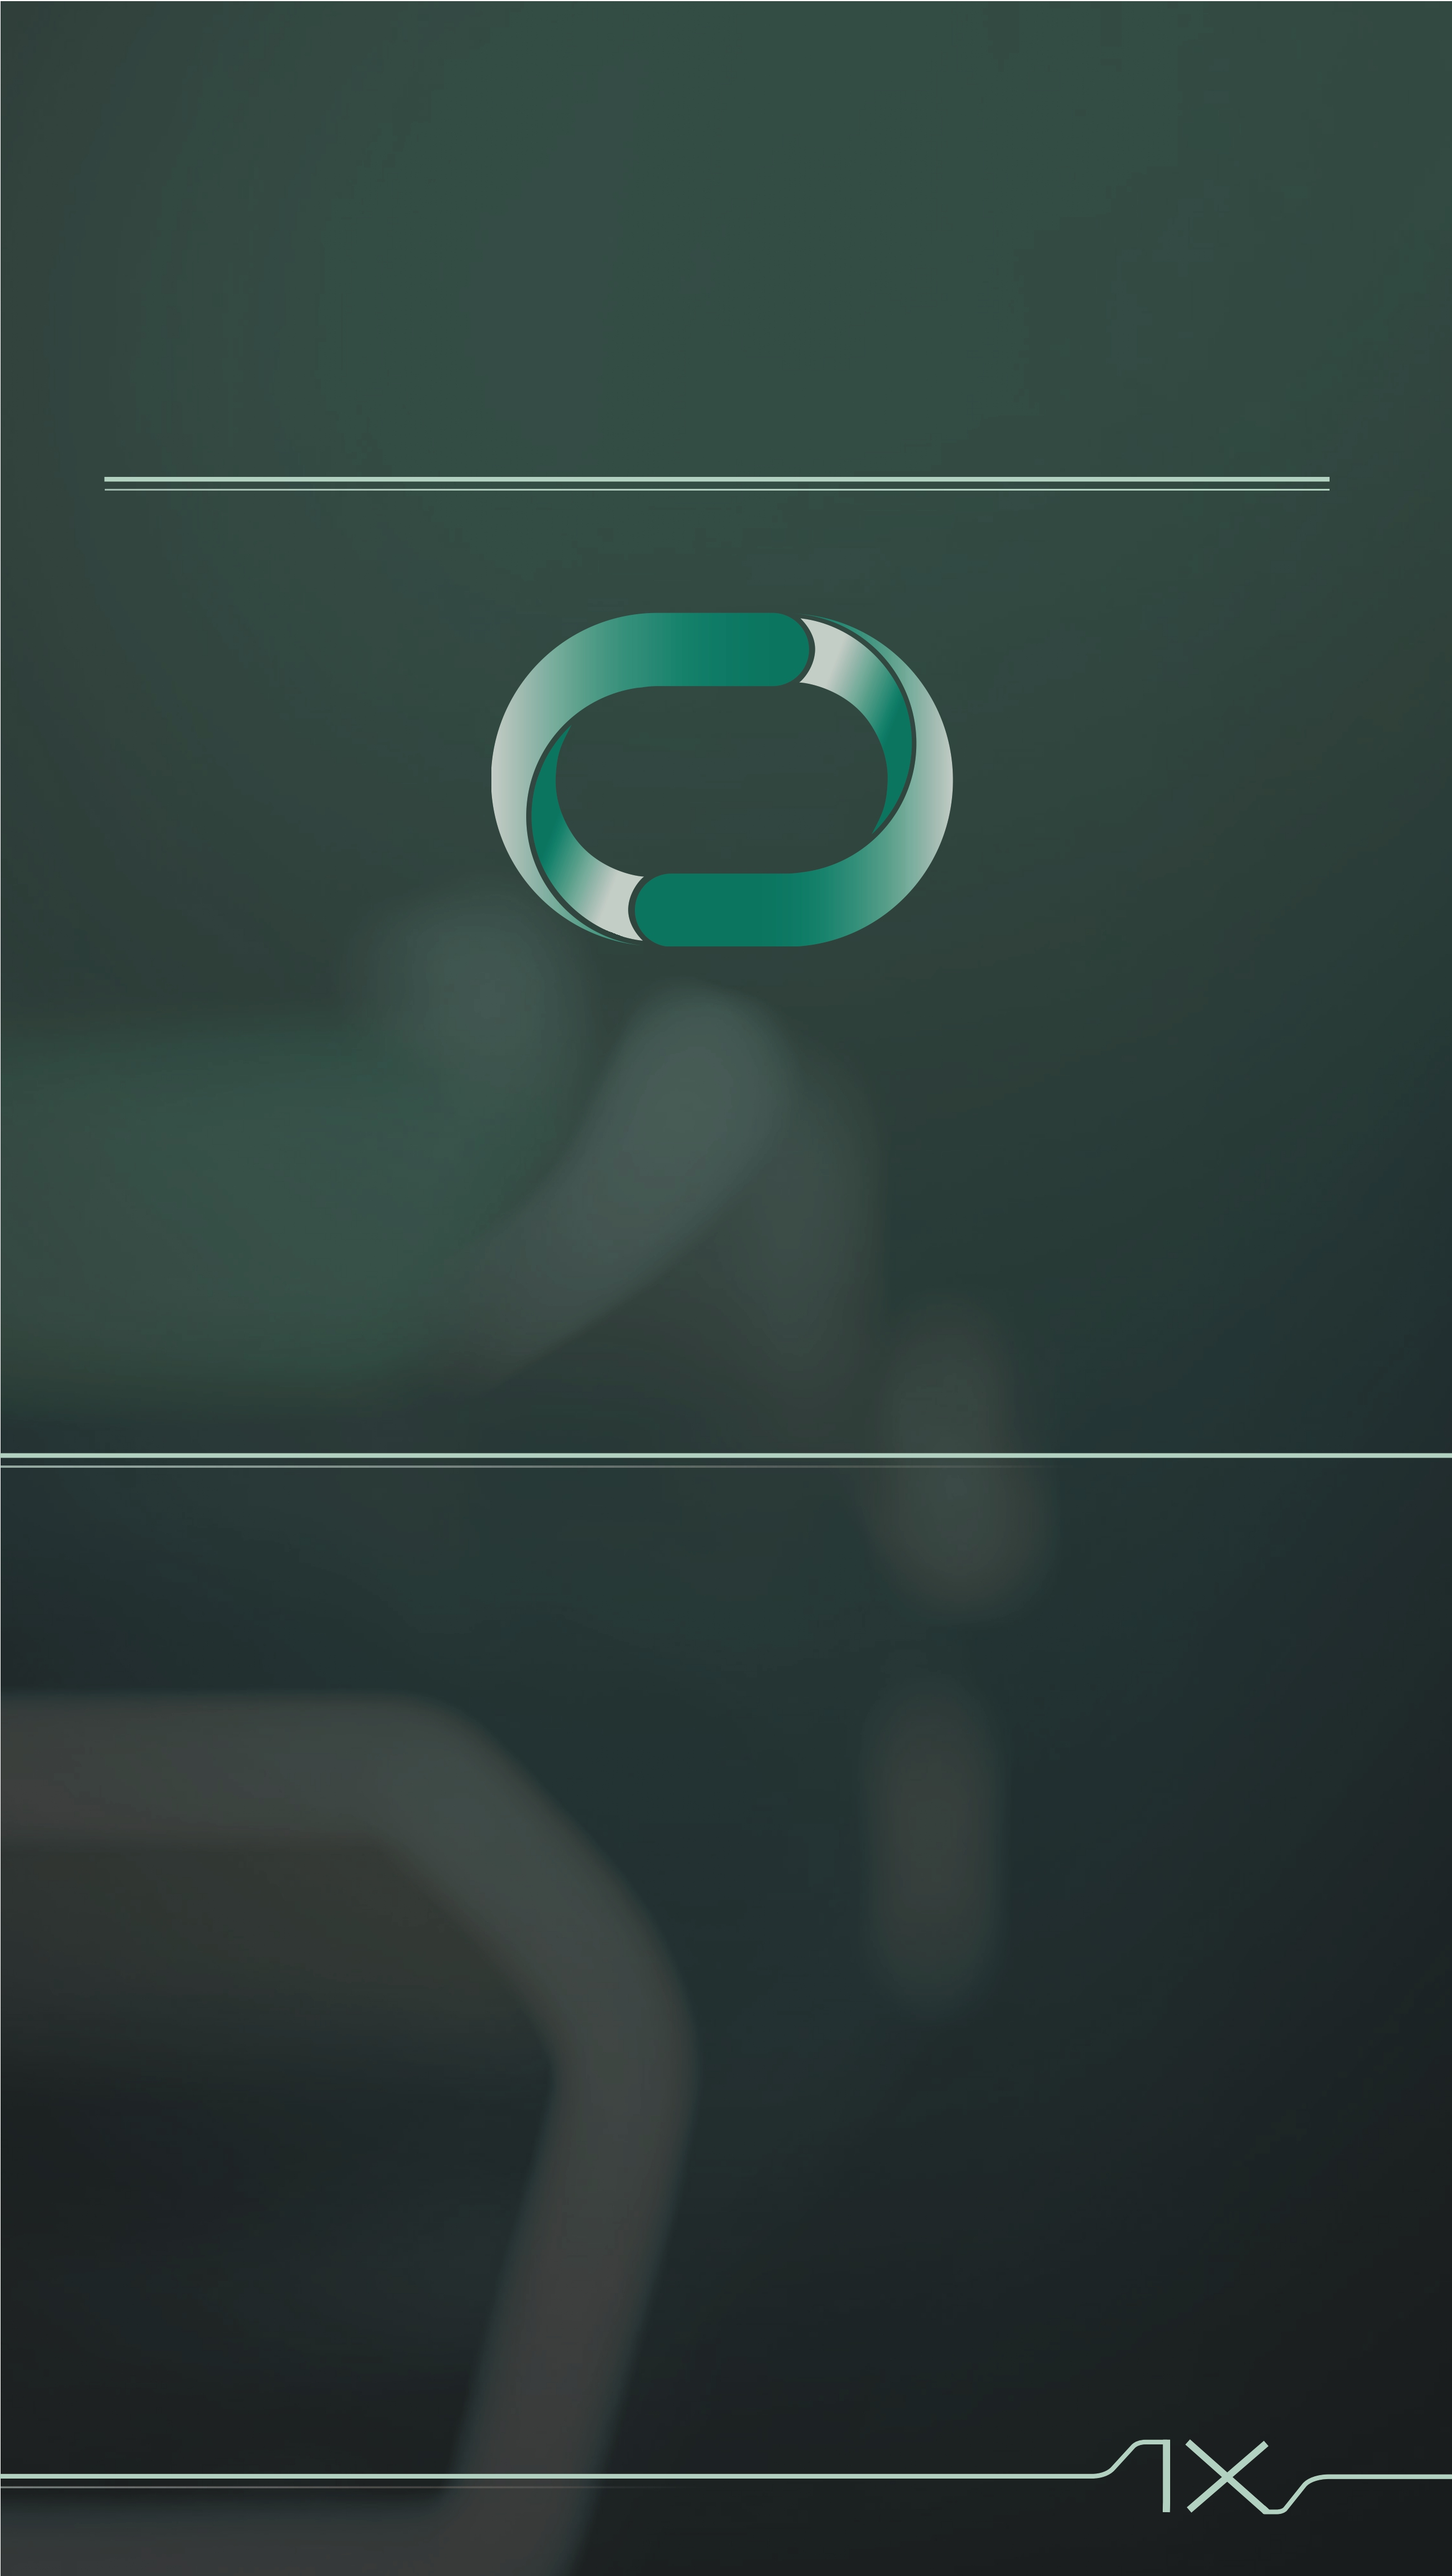
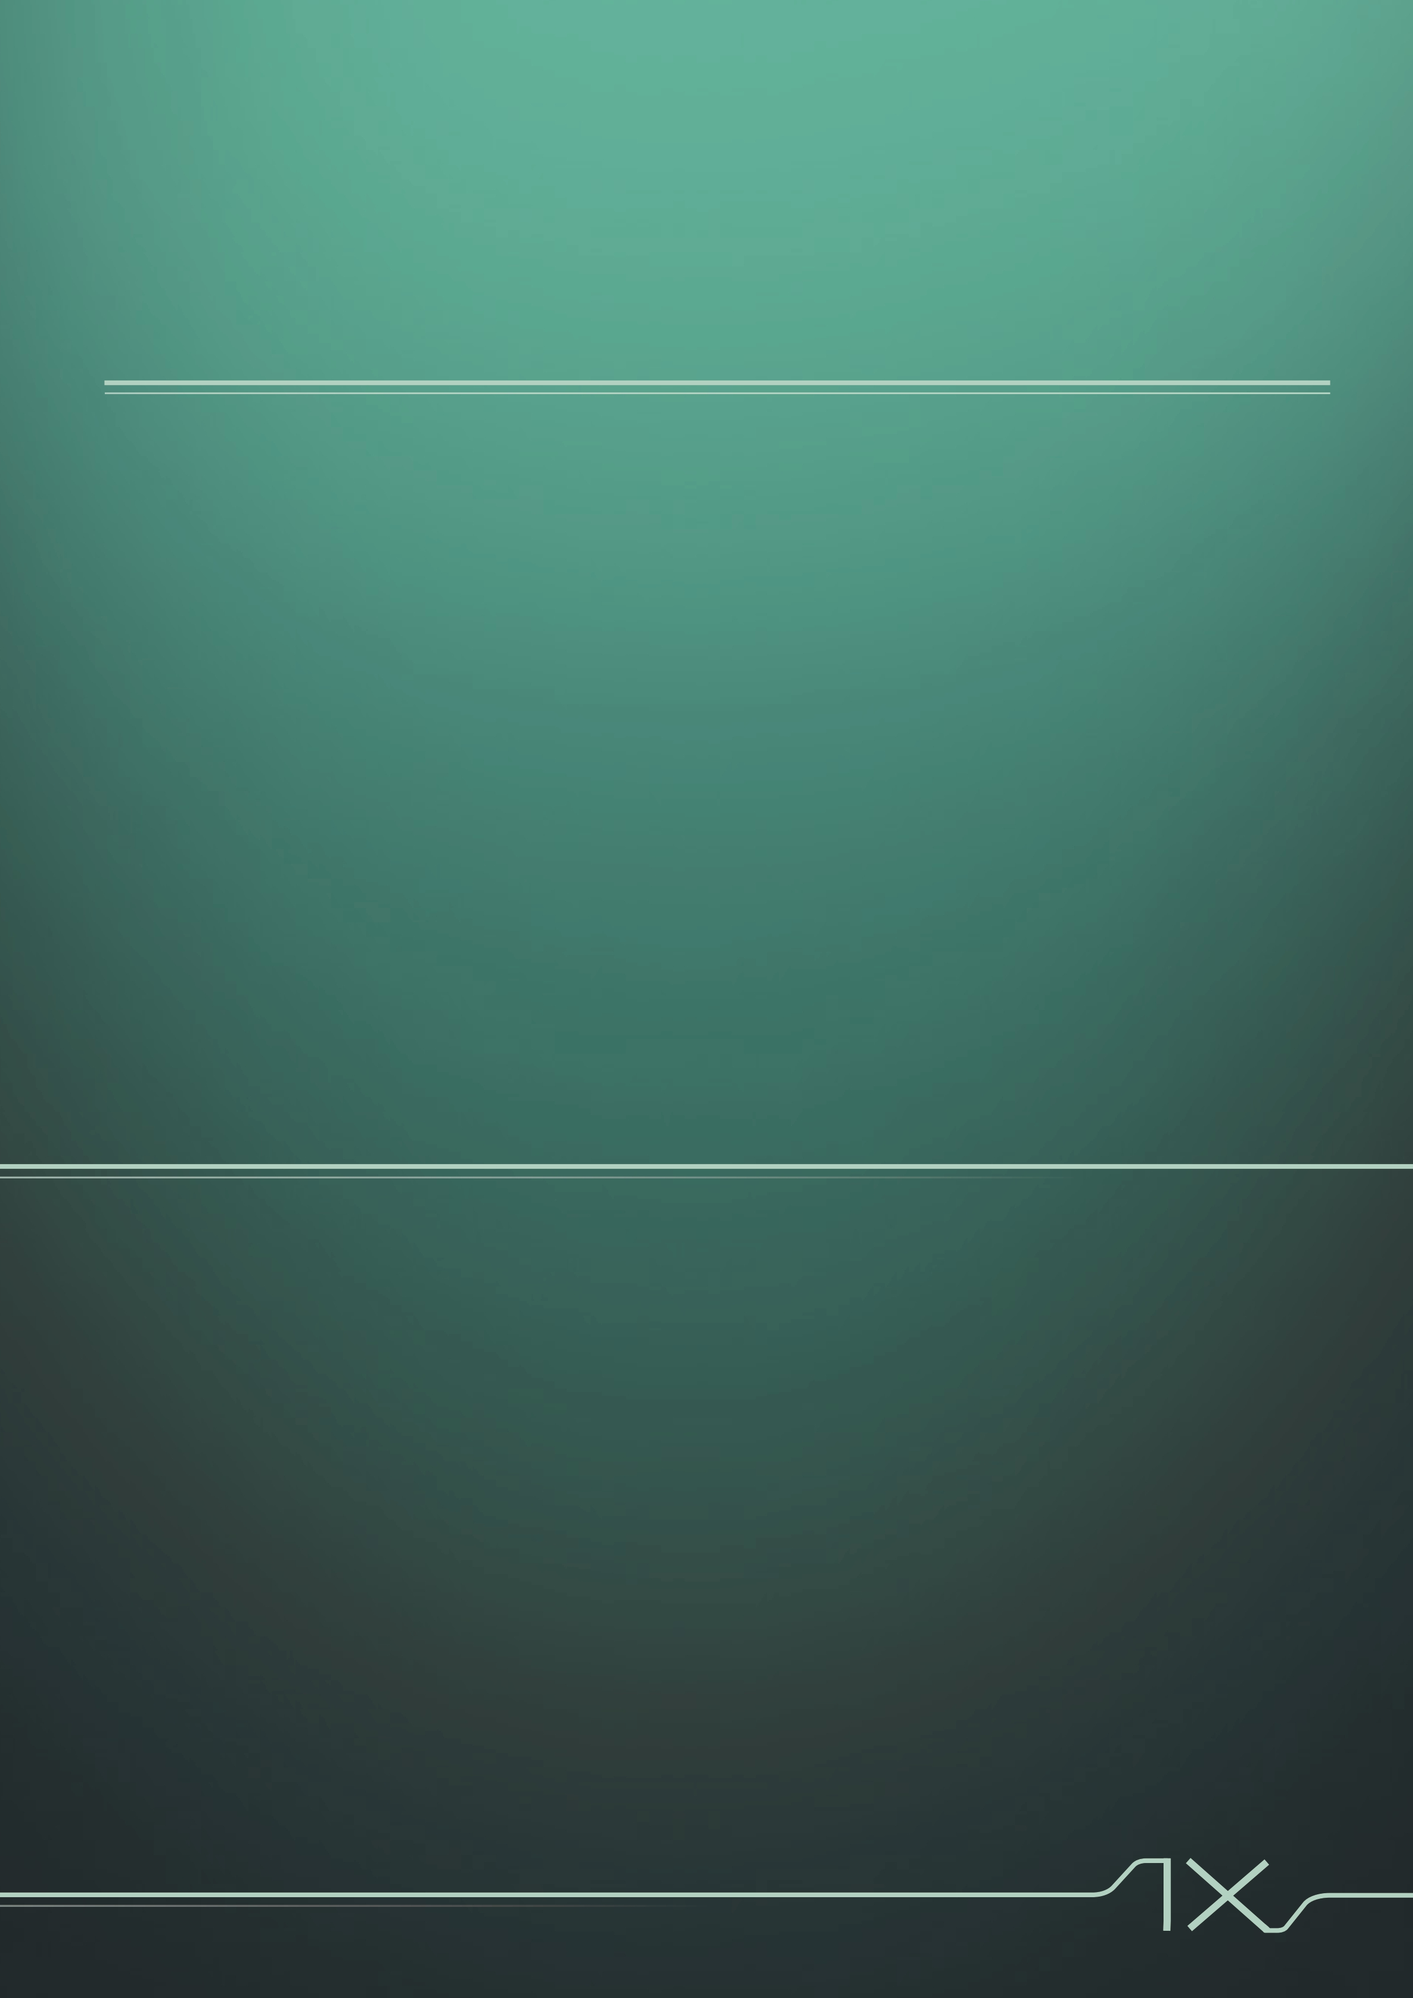
Updates from Overleaf

diff --git a/titlepage.tex b/titlepage.tex
@@ -1,8 +1,8 @@
 % Add the default wallpaper
-\tpwallpaper
+% \tpwallpaper
 % You can also add your own, and pass the path as an optional argument,
 % Like here:
-% \tpwallpaper[rsc/wp1.jpeg]
+\tpwallpaper[{rsc/coverwallpaper_v2.jpg}]
 
 % Text colors
 \color{white} % Main font color
@@ -37,8 +37,8 @@
 % {\tpboldLARGE \contour{black}{\tpdoctitle}}
 
 
-\vspace{2.6cm}
-\delfthyperlooplogo{0.55}
+\vspace{2cm}
+\delfthyperlooplogo{0.4}
 
 % Detailed author info.
 %
@@ -51,11 +51,11 @@
 % authors passed to it.
 {\tplarge \tpdocauthorinfo \par}
 
-\vspace{3cm}
+\vspace{1cm}
 
 % The date
 {\tplarge \tptext{\tpdocdate} \par}
-\vspace{4cm}
+\vspace{3cm}
 
 % The box with the links in the middle
 \ifnotfinal{

diff --git a/rsc/changelog.tex b/rsc/changelog.tex
@@ -5,6 +5,7 @@
     \item Added a useful snippet for draft-only content.
     \item Used the title page template made by the design engineers.
     \item Adapted the footer to look more like the footer in other documents made by the design engineers.
+    \item Changed to the superior title page (thanks @Design Engineers).
 \end{itemize}
 
 \section*{10th Dec 2024} \label{sec:changelog:2024/12/10}
